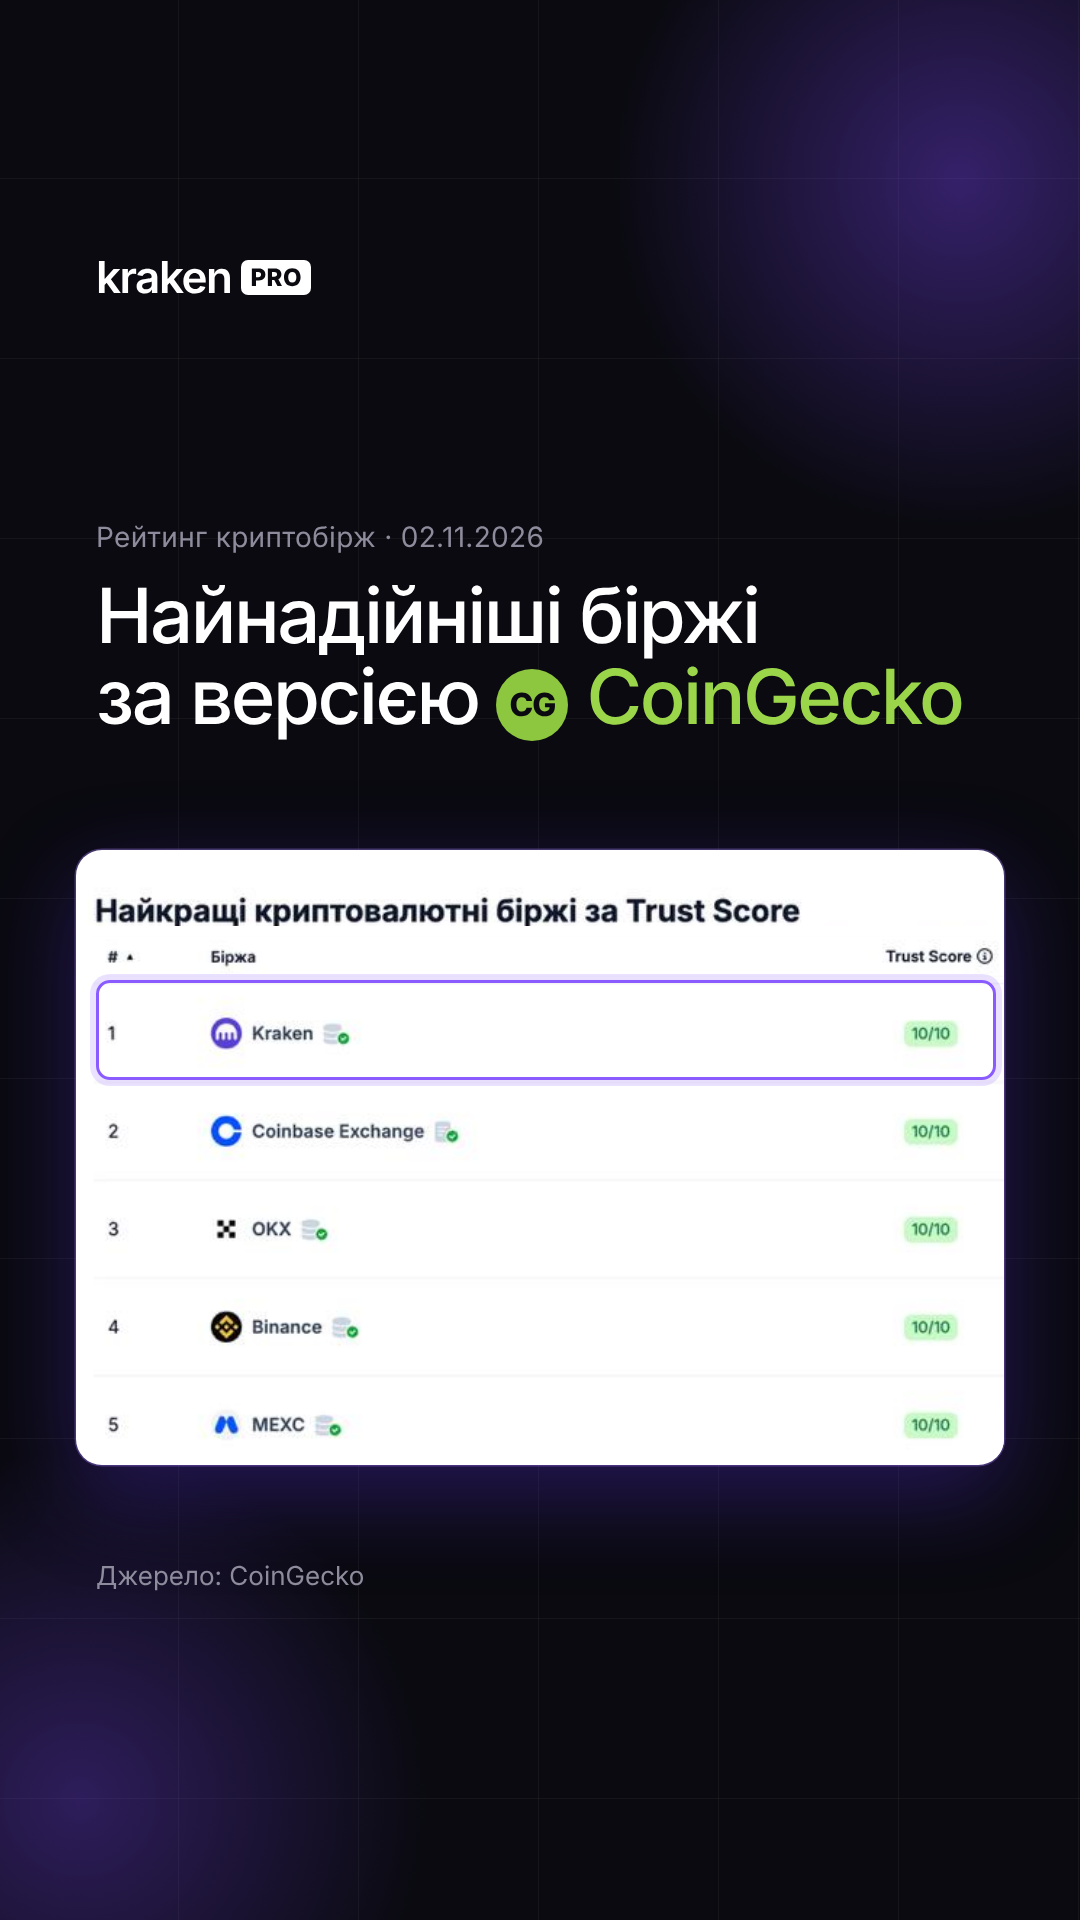
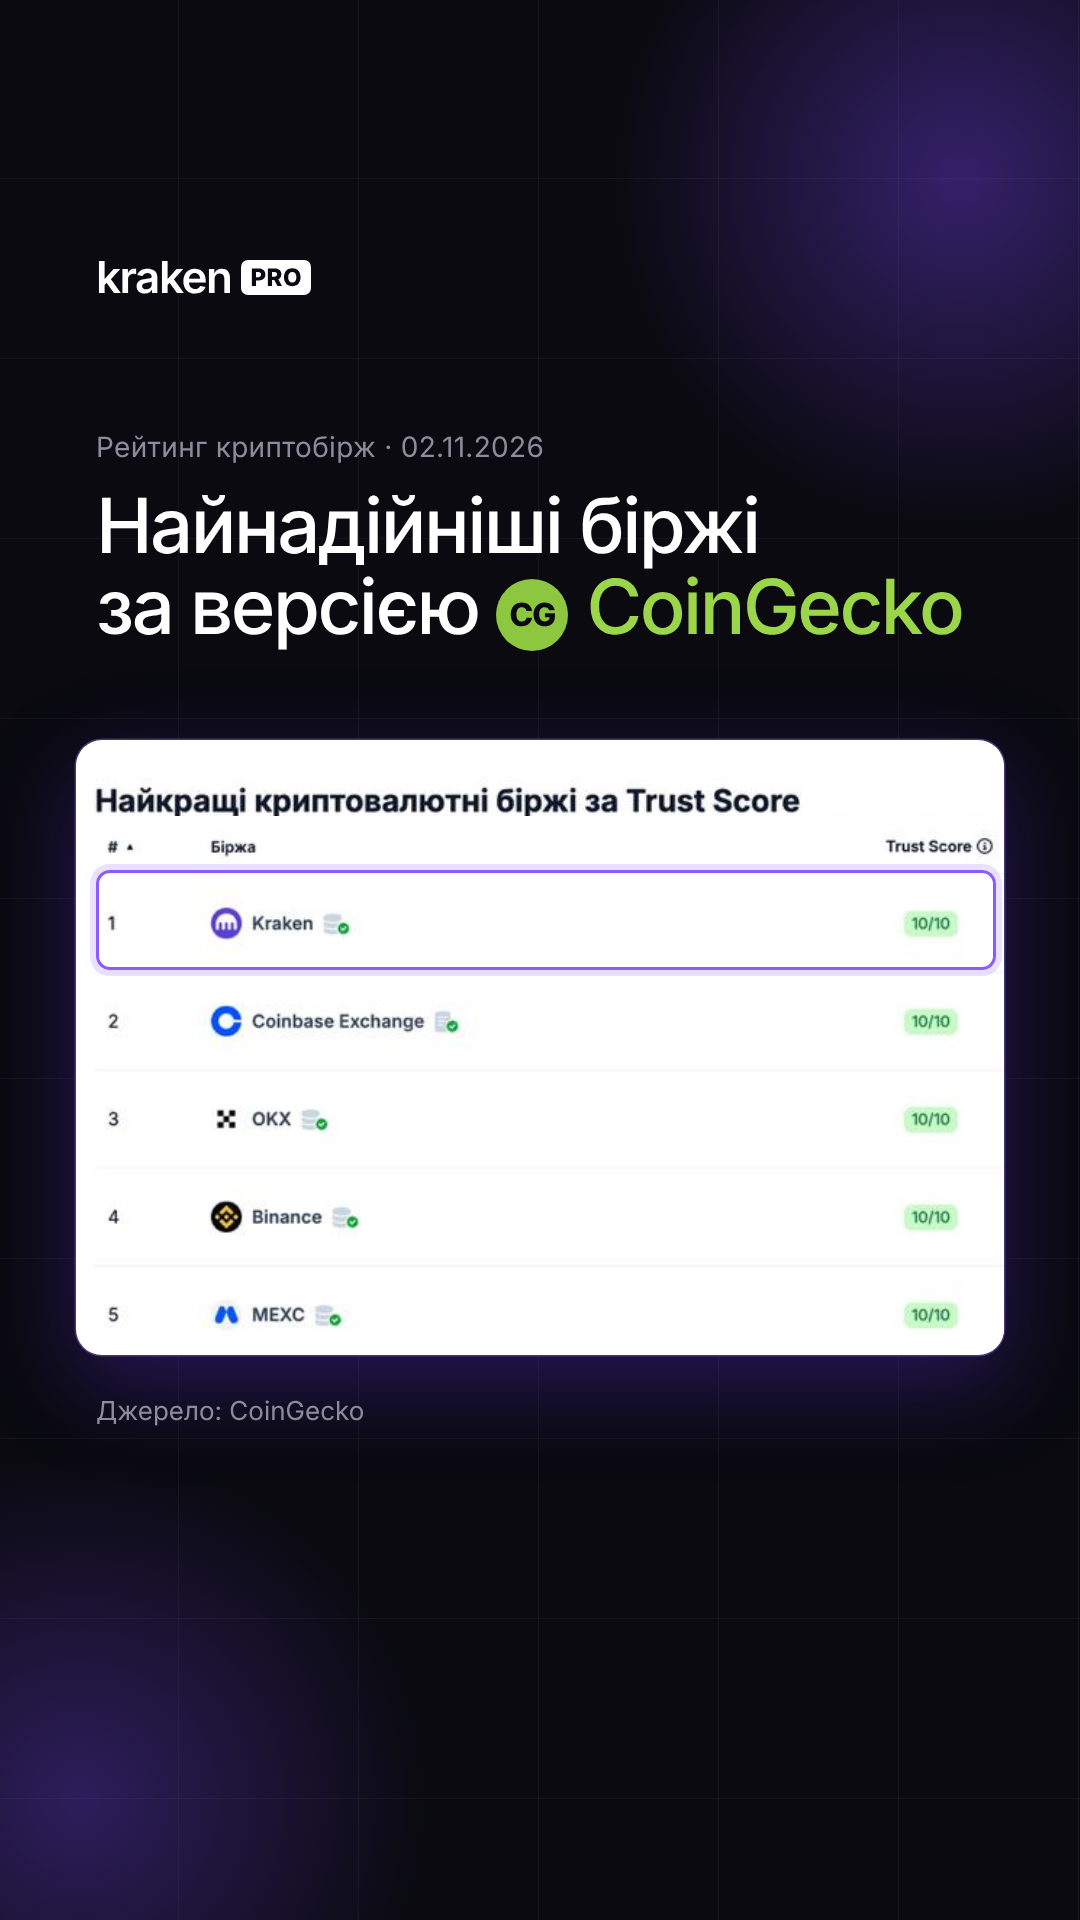
Story: move content up to free space for link sticker
Claude-Session: https://claude.ai/code/session_01Li97ffKf2q18jZ4p57ZTsX

Changed region(s): [[0.0611, 0.2188, 0.9472, 0.5938], [0.0611, 0.625, 0.9472, 0.8438], [0.0917, 0.625, 0.1222, 0.6562]]

diff --git a/threads-coingecko/story.html b/threads-coingecko/story.html
@@ -44,11 +44,11 @@ h1 span{color:#B18CFF}
 .foot2{position:absolute;left:96px;right:96px;bottom:110px;font-size:26px;color:#8e8c9c}
 .foot2 span{color:#c9ef8f}
 .hdr{top:250px}
-.eyebrow{top:520px}
-.s h1{top:575px}
+.eyebrow{top:430px}
+.s h1{top:485px}
 
-.s .card{top:850px}
-.foot2{bottom:auto;top:1560px}
+.s .card{top:740px}
+.foot2{bottom:auto;top:1395px}
 .glow1{top:-200px}
 .glow2{bottom:-260px}
 </style></head><body>
